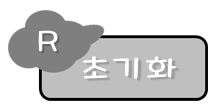
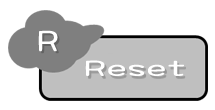
-fin 리셋 버튼

Changed region(s): [[0.3907, 0.4909, 0.8651, 0.7364]]

diff --git a/DxTeamProject/DxTeamProject/UI.cpp b/DxTeamProject/DxTeamProject/UI.cpp
@@ -1261,11 +1261,18 @@ void CUI::Render_Mapname()
 
 	if (CollideSavePoint)
 	{
+		// Script
 		SetRect(&s_scrirc10, -1050, -15, m_scriInfo10.Width, m_scriInfo10.Height);
 		m_pSprite->Draw(m_scriUI10, &s_scrirc10,
 			&D3DXVECTOR3(0, 0, 0),
 			&D3DXVECTOR3(0, 0, 0),
 			D3DCOLOR_ARGB(int(puls), 255, 255, 255));
+		// Reset Button
+		SetRect(&s_textrc7, -720, -420, m_textInfo7.Width, m_textInfo7.Height);
+		m_pSprite->Draw(m_textUI7, &s_textrc7,
+			&D3DXVECTOR3(0, 0, 0),
+			&D3DXVECTOR3(0, 0, 0),
+			D3DCOLOR_ARGB((int)puls, 255, 255, 255));
 		if (puls <= 0.0f)
 		{
 			puls = 0.0f;
